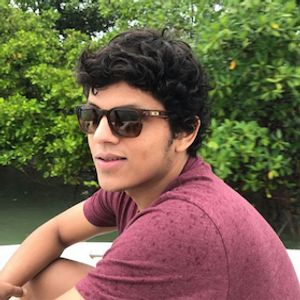
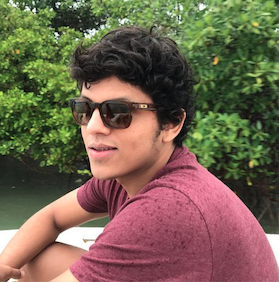
Renaming correctly

diff --git a/content/events/2018-fortaleza/speakers/jairo-junior.md b/content/events/2018-fortaleza/speakers/jairo-junior.md
@@ -1,7 +1,7 @@
 +++
 Title = "Jairo Junior"
 Twitter = ""
-image = "jairo-junior2.jpg"
+image = "jairo-junior.jpg"
 type = "speaker"
 linktitle = "jairo-junior"
 
